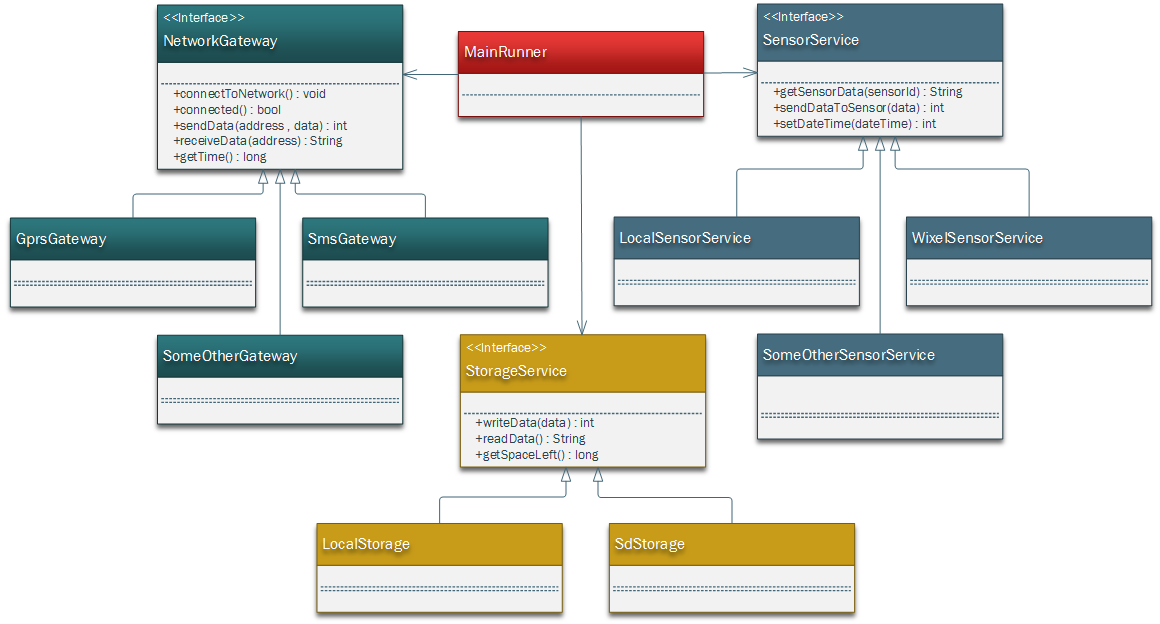
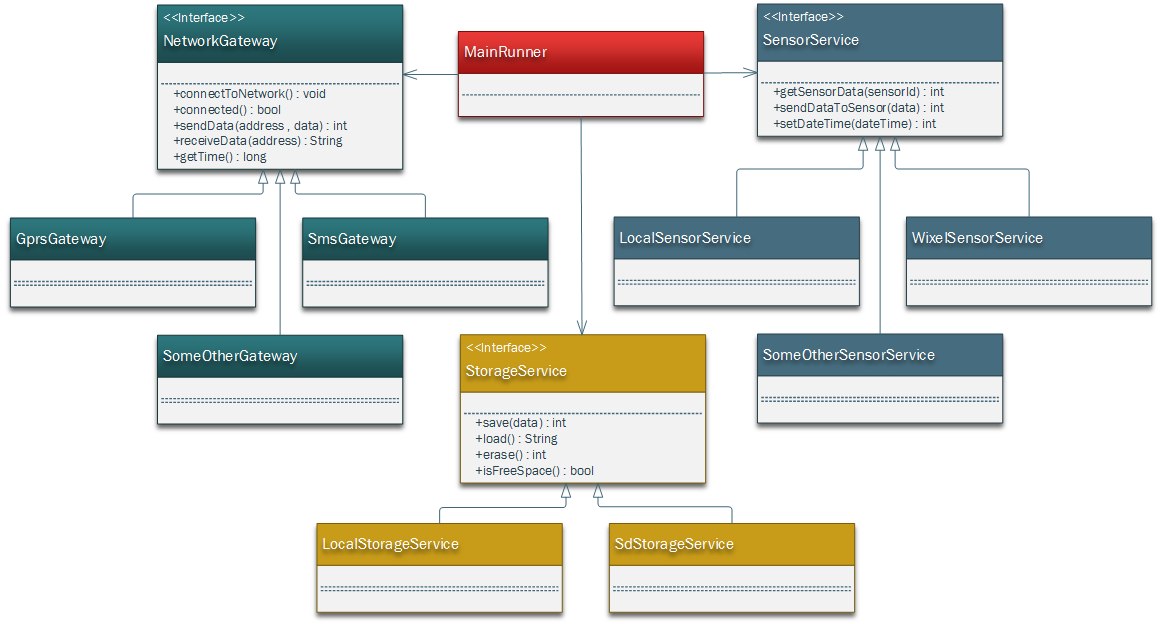
Updated class diagram
git-svn-id: https://repository.cs.ru.is/svn/t-411-mech-2014/group/DataCollector@1464 e04762d8-fc4d-4a97-984f-be148a7113a7

diff --git a/FinalReport/design.tex b/FinalReport/design.tex
@@ -107,7 +107,9 @@ SensorService class that have to be implemented are followed:
 
 
 \subsubsection{Storage Service interface}
-
+%****************************************************************
+% REMEMBER TO FIX CLASS DIAGRAM
+%***************************************************************
 \begin{itemize}
 	\item \textbf{int save(String data)}
 		\begin{itemize}
